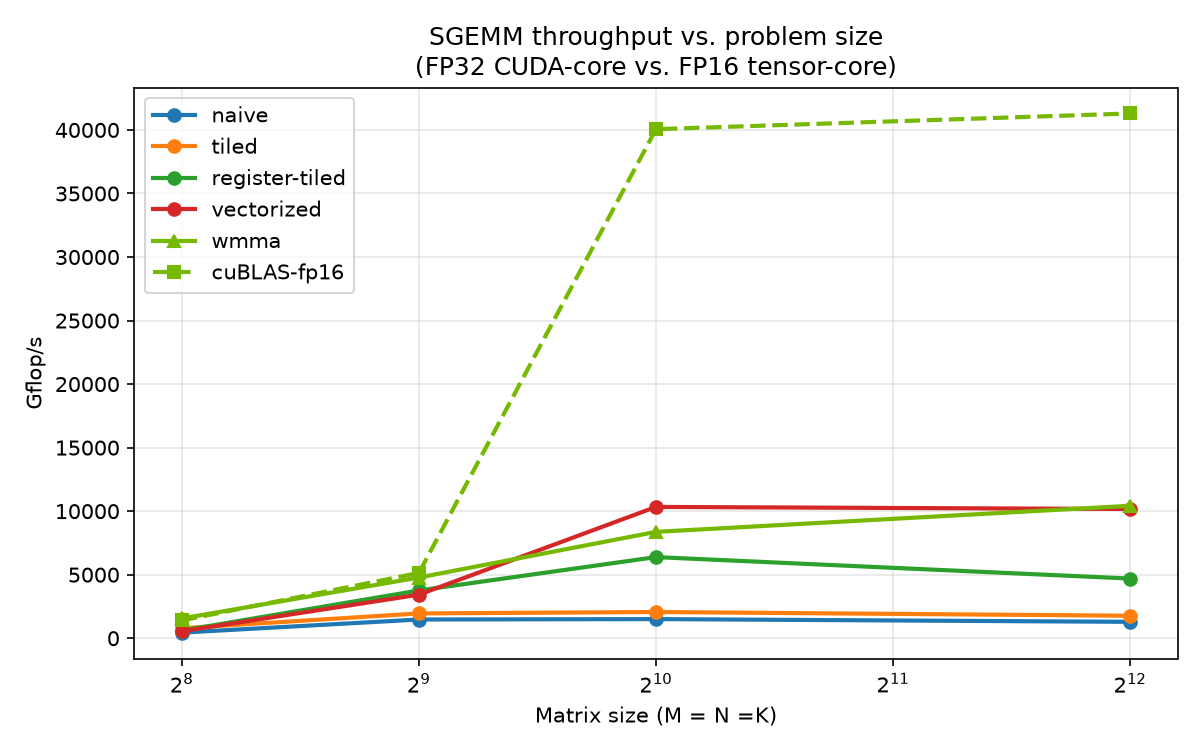
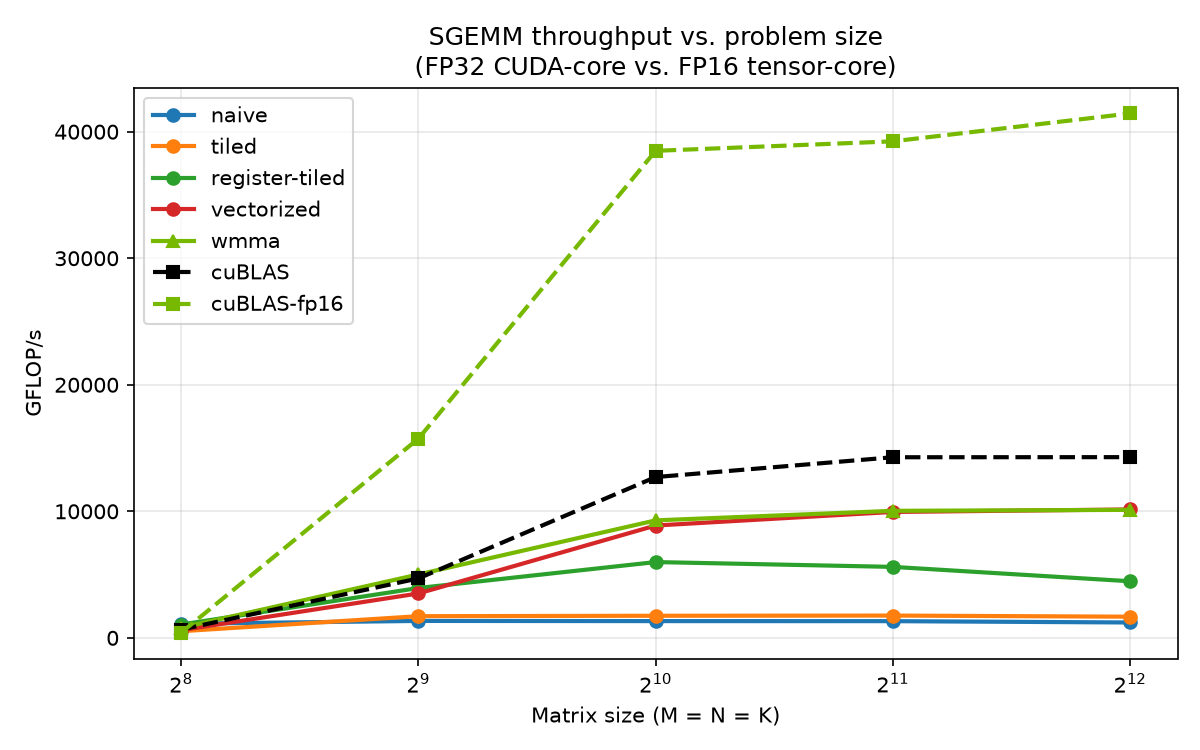
Regenerate sweep with 2048, fix missing FP32 cuBLAS line in plot
- Add 2048 to the --sweep sizes and regenerate results.csv and both
  plots on the RTX 5060 Ti.
- The harness wrote the FP32 baseline as "cuBlAS" while plot.py looks
  up "cuBLAS", so the FP32 cuBLAS line never appeared in
  gflops_vs_size.png. Print it as "cuBLAS".
- Fix typos in the plot labels ("cuBLS thoughput", "kernals").

diff --git a/plot.py b/plot.py
@@ -44,8 +44,8 @@ def plot_gflops(data, out="gflops_vs_size.png"):
         style.update(STYLE.get(k, {}))
         ax.plot(sizes, gf, label=k, **style)
     ax.set_xscale("log", base = 2)
-    ax.set_xlabel("Matrix size (M = N =K)")
-    ax.set_ylabel("Gflop/s")
+    ax.set_xlabel("Matrix size (M = N = K)")
+    ax.set_ylabel("GFLOP/s")
     ax.set_title("SGEMM throughput vs. problem size\n(FP32 CUDA-core vs. FP16 tensor-core)")
     ax.grid(True, which="both", alpha=0.3)
     ax.legend()
@@ -62,8 +62,8 @@ def plot_pct(pct, out="pct_cublas.png"):
     fig, ax = plt.subplots(figsize=(8,5))
     bars = ax.bar(custom, vals, color="#76b900")
     ax.axhline(100, linestyle="--", color="black", linewidth=1)
-    ax.set_ylabel("% of FP32 cuBLS thoughput")
-    ax.set_title(f"FP32 kernals vs. cuBLAS at {largest} x {largest} x {largest}")
+    ax.set_ylabel("% of FP32 cuBLAS throughput")
+    ax.set_title(f"FP32 kernels vs. cuBLAS at {largest} x {largest} x {largest}")
     for b, v in zip(bars, vals):
         ax.text(b.get_x() + b.get_width() / 2, v, f"{v:.0f}%", ha="center", va="bottom")
     fig.tight_layout()

diff --git a/README.md b/README.md
@@ -92,7 +92,7 @@ repeat runs each at 1024³, 2048³ and 4096³ on the RTX 5060 Ti, showing only t
    warp-level WMMA API. Each warp owns one tile and walks K loading fragments
    from global memory. This is the *naive* tensor-core kernel. It's correct
    and about 8× the naive FP32 kernel, but it only **ties** the optimized FP32
-   `vectorized` kernel (~10.0 vs ~10.2 TFLOP/s at 4096³) and reaches ~25% of
+   `vectorized` kernel (both ~10.1 TFLOP/s at 4096³) and reaches ~25% of
    cuBLAS FP16. It has none of the data reuse that kernels 2–4 build up:
    - no shared-memory staging, so every `load_matrix_sync` goes to global
      memory and reuse depends on L1/L2 hits;
